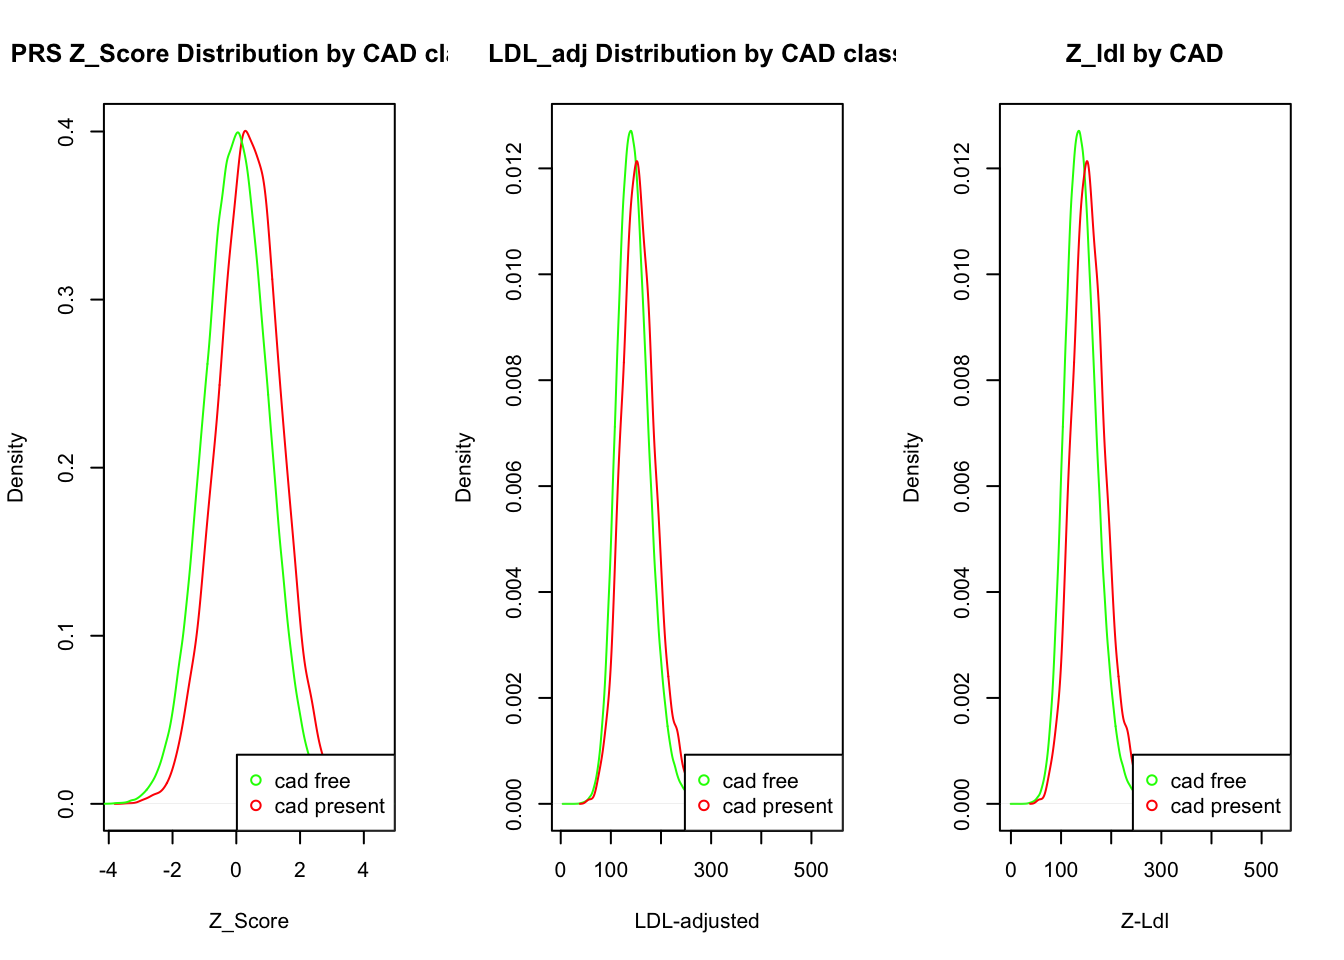
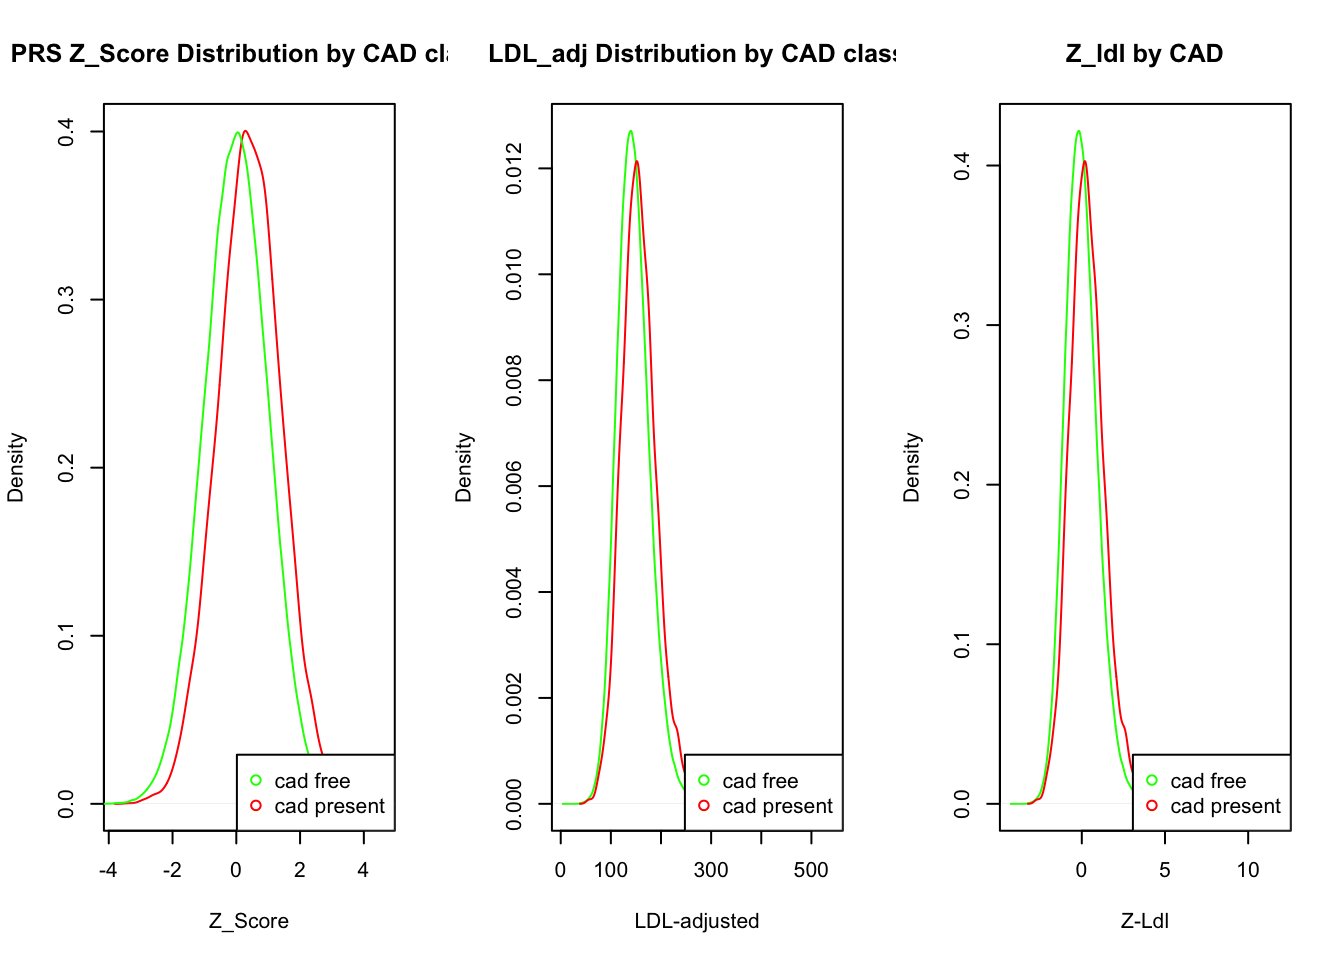
Build site.

diff --git a/docs/prs_equivalency.html b/docs/prs_equivalency.html
@@ -412,16 +412,16 @@ This reproducible <a href="http://rmarkdown.rstudio.com">R Markdown</a> analysis
 <div class="panel panel-default">
 <div class="panel-heading">
 <p class="panel-title">
-<a data-toggle="collapse" data-parent="#workflowr-checks" href="#strongRepositoryversionstrongahrefhttpsgithubcombroadinstitutenatarajanlabwikitree3b28b7d5af8c13792f01cb4eead3b426e30792d5targetblank3b28b7da"> <span class="glyphicon glyphicon-ok text-success" aria-hidden="true"></span> <strong>Repository version:</strong> <a href="https://github.com/broadinstitute/natarajanlab_wiki/tree/3b28b7d5af8c13792f01cb4eead3b426e30792d5" target="_blank">3b28b7d</a> </a>
+<a data-toggle="collapse" data-parent="#workflowr-checks" href="#strongRepositoryversionstrongahrefhttpsgithubcombroadinstitutenatarajanlabwikitree5088098c19d8576281e9f4f0058ec8210c435246targetblank5088098a"> <span class="glyphicon glyphicon-ok text-success" aria-hidden="true"></span> <strong>Repository version:</strong> <a href="https://github.com/broadinstitute/natarajanlab_wiki/tree/5088098c19d8576281e9f4f0058ec8210c435246" target="_blank">5088098</a> </a>
 </p>
 </div>
[2 lines of base64/hex data omitted]
 <div class="panel-body">
 <p>
 Great! You are using Git for version control. Tracking code development and connecting the code version to the results is critical for reproducibility.
 </p>
 <p>
-The results in this page were generated with repository version <a href="https://github.com/broadinstitute/natarajanlab_wiki/tree/3b28b7d5af8c13792f01cb4eead3b426e30792d5" target="_blank">3b28b7d</a>. See the <em>Past versions</em> tab to see a history of the changes made to the R Markdown and HTML files.
+The results in this page were generated with repository version <a href="https://github.com/broadinstitute/natarajanlab_wiki/tree/5088098c19d8576281e9f4f0058ec8210c435246" target="_blank">5088098</a>. See the <em>Past versions</em> tab to see a history of the changes made to the R Markdown and HTML files.
 </p>
 <p>
 Note that you need to be careful to ensure that all relevant files for the analysis have been committed to Git prior to generating the results (you can use <code>wflow_publish</code> or <code>wflow_git_commit</code>). workflowr only checks the R Markdown file, but you know if there are other scripts or data files that it depends on. Below is the status of the Git repository when the results were generated:
@@ -482,6 +482,40 @@ Message
 </tr>
 </thead>
 <tbody>
+<tr>
+<td>
+Rmd
+</td>
+<td>
+<a href="https://github.com/broadinstitute/natarajanlab_wiki/blob/5088098c19d8576281e9f4f0058ec8210c435246/analysis/prs_equivalency.Rmd" target="_blank">5088098</a>
+</td>
+<td>
+Your Name
+</td>
+<td>
+2021-09-16
+</td>
+<td>
+wflow_publish("prs_equivalency.rmd")
+</td>
+</tr>
+<tr>
+<td>
+html
+</td>
+<td>
+<a href="https://rawcdn.githack.com/broadinstitute/natarajanlab_wiki/2cdb0213e243ff0422ba0e6870727770fc062c50/docs/prs_equivalency.html" target="_blank">2cdb021</a>
+</td>
+<td>
+Your Name
+</td>
+<td>
+2021-09-16
+</td>
+<td>
+Build site.
+</td>
+</tr>
 <tr>
 <td>
 Rmd
@@ -891,6 +925,43 @@ head(df)</code></pre>
 <pre class="r"><code>correlations &lt;- cor(df[,c(&quot;ldladj&quot;,&quot;prs_quant&quot;,&quot;age&quot;,&quot;cad&quot;,&quot;PC1&quot;,&quot;PC2&quot;,&quot;PC3&quot;,&quot;PC4&quot;,&quot;PC5&quot;)])
 corrplot(correlations, method=&quot;circle&quot;)</code></pre>
 <p><img src="figure/prs_equivalency.Rmd/unnamed-chunk-2-1.png" width="672" style="display: block; margin: auto;" /></p>
+<p>
+<button type="button" class="btn btn-default btn-xs btn-workflowr btn-workflowr-fig" data-toggle="collapse" data-target="#fig-unnamed-chunk-2-1">
+Past versions of unnamed-chunk-2-1.png
+</button>
+</p>
+<div id="fig-unnamed-chunk-2-1" class="collapse">
+<div class="table-responsive">
+<table class="table table-condensed table-hover">
+<thead>
+<tr>
+<th>
+Version
+</th>
+<th>
+Author
+</th>
+<th>
+Date
+</th>
+</tr>
+</thead>
+<tbody>
+<tr>
+<td>
+<a href="https://github.com/broadinstitute/natarajanlab_wiki/blob/2cdb0213e243ff0422ba0e6870727770fc062c50/docs/figure/prs_equivalency.Rmd/unnamed-chunk-2-1.png" target="_blank">2cdb021</a>
+</td>
+<td>
+Your Name
+</td>
+<td>
+2021-09-16
+</td>
+</tr>
+</tbody>
+</table>
+</div>
+</div>
 <p>Note that SCORESUM is actually the opposite direction (increasing score is protective) so we take the opposite. Let’s create a factor to call LDL greater or less than 190. Now, let’s fit some simple logistic regression. Here’s the Logistic with factor</p>
 <pre class="r"><code>glm.fit=glm(df$cad~df$prs_quant+df$PC1+df$PC2+df$PC3+df$PC4+df$PC5+df$age+df$sex+df$ldl_fact,family=binomial)
 exp(coef(glm.fit))</code></pre>
@@ -914,6 +985,43 @@ abline(h=exp(coef(glm.ldl)[[2]]),col=&quot;red&quot;,pch=1)
 abline(v=coef(glm.ldl)[[2]]/coef(glm.prs)[[2]],pch=2,col=&quot;green&quot;)
 legend(&quot;topleft&quot;,c(&quot;OR_LDL&gt;190&quot;,&quot;PRS_quantile&quot;),col=c(&quot;red&quot;,&quot;green&quot;),fill=c(&quot;red&quot;,&quot;green&quot;))</code></pre>
 <p><img src="figure/prs_equivalency.Rmd/unnamed-chunk-3-1.png" width="672" style="display: block; margin: auto;" /></p>
+<p>
+<button type="button" class="btn btn-default btn-xs btn-workflowr btn-workflowr-fig" data-toggle="collapse" data-target="#fig-unnamed-chunk-3-1">
+Past versions of unnamed-chunk-3-1.png
+</button>
+</p>
+<div id="fig-unnamed-chunk-3-1" class="collapse">
+<div class="table-responsive">
+<table class="table table-condensed table-hover">
+<thead>
+<tr>
+<th>
+Version
+</th>
+<th>
+Author
+</th>
+<th>
+Date
+</th>
+</tr>
+</thead>
+<tbody>
+<tr>
+<td>
+<a href="https://github.com/broadinstitute/natarajanlab_wiki/blob/2cdb0213e243ff0422ba0e6870727770fc062c50/docs/figure/prs_equivalency.Rmd/unnamed-chunk-3-1.png" target="_blank">2cdb021</a>
+</td>
+<td>
+Your Name
+</td>
+<td>
+2021-09-16
+</td>
+</tr>
+</tbody>
+</table>
+</div>
+</div>
 <pre class="r"><code>q=coef(glm.ldl)[[2]]/coef(glm.prs)[[2]]
 
 w=which(df$prs_quant&gt;q)
@@ -940,11 +1048,48 @@ plot(density(df$ldladj[df$cad==0]),col=&quot;green&quot;,main=&quot;LDL_adj Dist
 lines(density(df$ldladj[df$cad==1]),col=&quot;red&quot;)
 legend(&quot;bottomright&quot;,c(&quot;cad free&quot;,&quot;cad present&quot;),col=c(&quot;green&quot;,&quot;red&quot;),pch=1)
 
-zldl=df$ldladj-mean(df$ldladj)/sd(df$ldladj)
+zldl=(df$ldladj-mean(df$ldladj))/sd(df$ldladj)
 plot(density(zldl[df$cad==0]),col=&quot;green&quot;,main=&quot;Z_ldl by CAD&quot;,xlab=&quot;Z-Ldl&quot;)
-lines(density(df$ldladj[df$cad==1]),col=&quot;red&quot;)
+lines(density(zldl[df$cad==1]),col=&quot;red&quot;)
 legend(&quot;bottomright&quot;,c(&quot;cad free&quot;,&quot;cad present&quot;),col=c(&quot;green&quot;,&quot;red&quot;),pch=1)</code></pre>
 <p><img src="figure/prs_equivalency.Rmd/unnamed-chunk-4-1.png" width="672" style="display: block; margin: auto;" /></p>
+<p>
+<button type="button" class="btn btn-default btn-xs btn-workflowr btn-workflowr-fig" data-toggle="collapse" data-target="#fig-unnamed-chunk-4-1">
+Past versions of unnamed-chunk-4-1.png
+</button>
+</p>
+<div id="fig-unnamed-chunk-4-1" class="collapse">
+<div class="table-responsive">
+<table class="table table-condensed table-hover">
+<thead>
+<tr>
+<th>
+Version
+</th>
+<th>
+Author
+</th>
+<th>
+Date
+</th>
+</tr>
+</thead>
+<tbody>
+<tr>
+<td>
+<a href="https://github.com/broadinstitute/natarajanlab_wiki/blob/2cdb0213e243ff0422ba0e6870727770fc062c50/docs/figure/prs_equivalency.Rmd/unnamed-chunk-4-1.png" target="_blank">2cdb021</a>
+</td>
+<td>
+Your Name
+</td>
+<td>
+2021-09-16
+</td>
+</tr>
+</tbody>
+</table>
+</div>
+</div>
 <br>
 <p>
 <button type="button" class="btn btn-default btn-workflowr btn-workflowr-sessioninfo" data-toggle="collapse" data-target="#workflowr-sessioninfo" style="display: block;">
